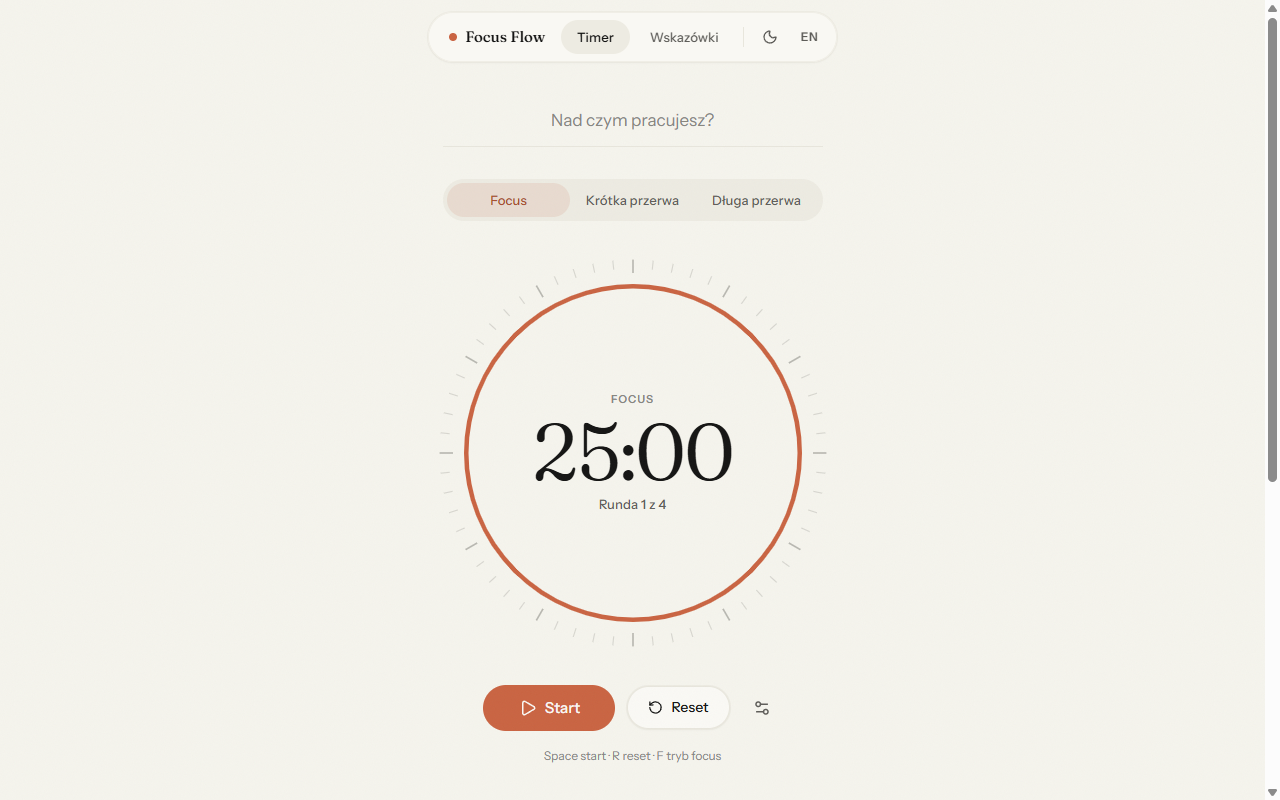
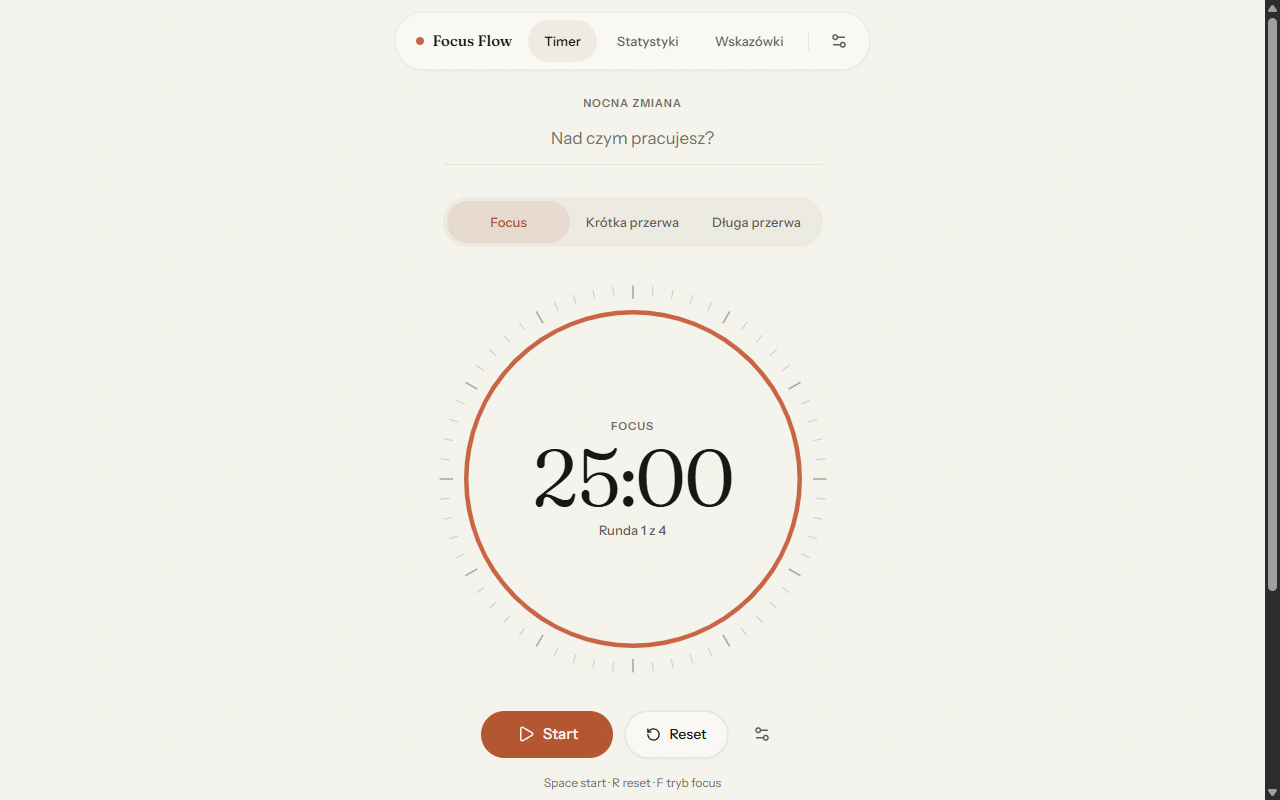
Refresh README, block overscroll flash and pinch zoom
Update the README feature list and project structure for the stats view,
topic library and data backup; bump screenshot versions. Disable
overscroll glow/elastic flash by keeping the viewport background on the
theme color, and block pinch zoom (viewport meta plus a gesturestart
guard for iOS Safari) for an app-like feel on phones.

diff --git a/src/components/StatCard.tsx b/src/components/StatCard.tsx
@@ -6,15 +6,15 @@ interface StatCardProps {
 
 export function StatCard({ value, label, emphasized = false }: StatCardProps) {
   return (
-    <div className="flex flex-col items-center gap-1 sm:flex-1 sm:border-l sm:border-line sm:px-6 sm:first:border-l-0">
+    <div className="flex flex-col items-center gap-1 sm:flex-1 sm:border-l sm:border-line sm:px-4 sm:first:border-l-0">
       <span
-        className={`tnum font-serif text-[1.75rem] leading-none font-[400] ${
+        className={`tnum whitespace-nowrap font-serif text-[1.75rem] leading-none font-[400] ${
           emphasized ? 'text-[var(--ac-strong)]' : 'text-ink'
         }`}
       >
         {value}
       </span>
-      <span className="text-overline text-ink-3">{label}</span>
+      <span className="whitespace-nowrap text-overline text-ink-3">{label}</span>
     </div>
   )
 }

diff --git a/index.html b/index.html
@@ -2,7 +2,7 @@
 <html lang="pl">
   <head>
     <meta charset="UTF-8" />
-    <meta name="viewport" content="width=device-width, initial-scale=1.0, viewport-fit=cover" />
+    <meta name="viewport" content="width=device-width, initial-scale=1.0, maximum-scale=1.0, user-scalable=no, viewport-fit=cover" />
     <meta name="description" content="Focus Flow is a quiet Pomodoro focus timer with ambient sound, session stats, and a warm editorial interface. Runs offline, in Polish or English." />
     <meta name="theme-color" content="#f5f4ed" media="(prefers-color-scheme: light)" />
     <meta name="theme-color" content="#141413" media="(prefers-color-scheme: dark)" />

diff --git a/src/index.css b/src/index.css
@@ -81,11 +81,14 @@ html {
   font-family: var(--font-sans);
   color: var(--color-ink);
   background: var(--color-page);
+  /* No white flash or elastic glow when scrolling past the edges (PWA/standalone) */
+  overscroll-behavior: none;
 }
 
 body {
   margin: 0;
   min-height: 100dvh;
+  background: var(--color-page);
   -webkit-font-smoothing: antialiased;
   text-rendering: optimizeLegibility;
 }

diff --git a/src/main.tsx b/src/main.tsx
@@ -9,6 +9,9 @@ if (import.meta.env.DEV) {
   })
 }
 
+// iOS Safari ignores user-scalable=no — block pinch zoom via gesture events
+document.addEventListener('gesturestart', (event) => event.preventDefault())
+
 createRoot(document.getElementById('root')!).render(
   <StrictMode>
     <App />

diff --git a/README.md b/README.md
@@ -6,7 +6,7 @@ The interface is deliberately quiet: warm paper tones, a serif clock face, one a
 
 | Desktop | Mobile |
 | --- | --- |
-| ![Desktop](focus-flow.png?v=2) | ![Mobile](mobile.png?v=2) |
+| ![Desktop](focus-flow.png?v=3) | ![Mobile](mobile.png?v=3) |
 
 ## What it does
 
@@ -14,9 +14,10 @@ The interface is deliberately quiet: warm paper tones, a serif clock face, one a
 - Countdown survives a page reload — it is anchored to wall-clock time, so a throttled background tab does not drift
 - One-task session field: write what you are working on, the app holds you to it until the session ends
 - Ambient soundscapes from freely-licensed field recordings — rain, ocean waves, stream, campfire — plus synthesized brown noise, and your own audio files, all stored locally
-- Session statistics: today, this week, day streak, total focus minutes, and a 7-day bar chart
-- A tips library with 30 evidence-backed entries (each cites its research) on learning, breaks, sleep, food, and productivity, in Polish and English
-- Fullscreen focus mode, keyboard shortcuts (Space, R, F, Esc), light and dark theme
+- A dedicated statistics section: today, this week, day streak, total focus minutes, a 7-day chart and a session log that remembers what you worked on each day
+- A topic library — seven topics with 14 methodical, source-cited guides (each a 3–5 minute read) in Polish and English
+- Fullscreen focus mode, keyboard shortcuts (Space, R, F, Esc), light and dark theme, reduced-motion option
+- Data backup: export and import everything as a single JSON file
 - Installable PWA; works offline after the first visit
 - Polish and English interface, switchable at runtime
 
@@ -37,6 +38,12 @@ Commons, level-normalized and edited into seamless loops — author and license
 credits are in [`public/sounds/SOUNDS.md`](public/sounds/SOUNDS.md). Brown noise
 is synthesized live with the Web Audio API instead of being shipped as a file.
 
+## Docs
+
+- [`DESIGN.md`](DESIGN.md) — the design system: tokens, components, motion, accessibility
+- [`docs/ARCHITECTURE.md`](docs/ARCHITECTURE.md) — architecture decisions (ADRs), including the desktop-packaging analysis (PWA vs Tauri vs Electron)
+- [`public/sounds/SOUNDS.md`](public/sounds/SOUNDS.md) — sound credits and licenses
+
 ## Development
 
 ```bash
@@ -56,12 +63,16 @@ src/
     timer.ts     timer engine (deadline-based, persisted session)
     audio.ts     chime + ambient sound engine
     storage.ts   typed localStorage wrapper, legacy data migration
+    dataPort.ts  backup export/import
+    sessions.ts  session log (per-day history)
+    platform.ts  runtime detection (browser / PWA / Tauri / Electron)
     stats.ts     streak / week math, 7-day series
     i18n.tsx     Polish and English dictionary
-    tips.ts      tips content
-  components/    dial, tabs, buttons, modal, accordion, nav
-  views/         timer and tips views
-DESIGN.md        design system: tokens, components, motion, accessibility
+    topics.ts, articles.ts   tips content
+  components/    dial, tabs, buttons, modals, topics, nav
+  views/         timer, stats, topics, topic, article views
+DESIGN.md         design system: tokens, components, motion, accessibility
+docs/ARCHITECTURE.md   architecture decisions (ADRs)
 ```
 
 ## Author
